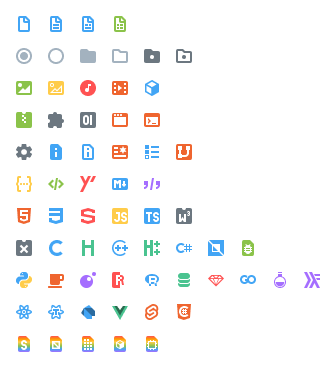
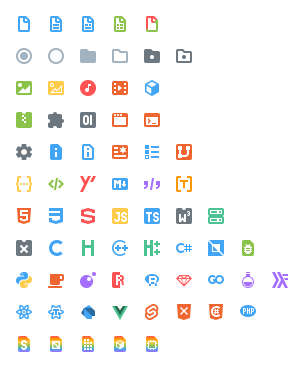
`1.1.1`

diff --git a/src/index.js b/src/index.js
@@ -60,11 +60,15 @@ for (const key in data.files) {
 		value.exts?.forEach((ext) => {
 			theme.fileExtensions[ext] = key;
 		});
-
-		value.langs?.forEach((lang) => {
-			theme.languageIds[lang] = key;
-		});
 	}
+
+	value.langs?.forEach((lang) => {
+		theme.languageIds[lang] = key;
+	});
+
+	value.fullNames?.forEach((name) => {
+		theme.fileNames[name] = key;
+	});
 }
 
 data.dotFolders.forEach((folder) => {

diff --git a/CHANGELOG.md b/CHANGELOG.md
@@ -1,12 +1,26 @@
 # Change Log
 
+## [1.1.1]
+
+- Fixed a few loose ends
+- Changed SQL icon
+- Added icons for
+  - DIFF
+  - TOML
+  - XHTML
+  - PHP
+
 ## [1.1.0]
+
 - New build system so adding new icons is easier and icons work even if you don't have the required extension
 - Added icons for
   - R
   - SQL
+  - H
+  - HPP
 
 ## [1.0.0]
+
 - No longer in preview! (doesn't really mean anything)
 - Added icons for
   - React
